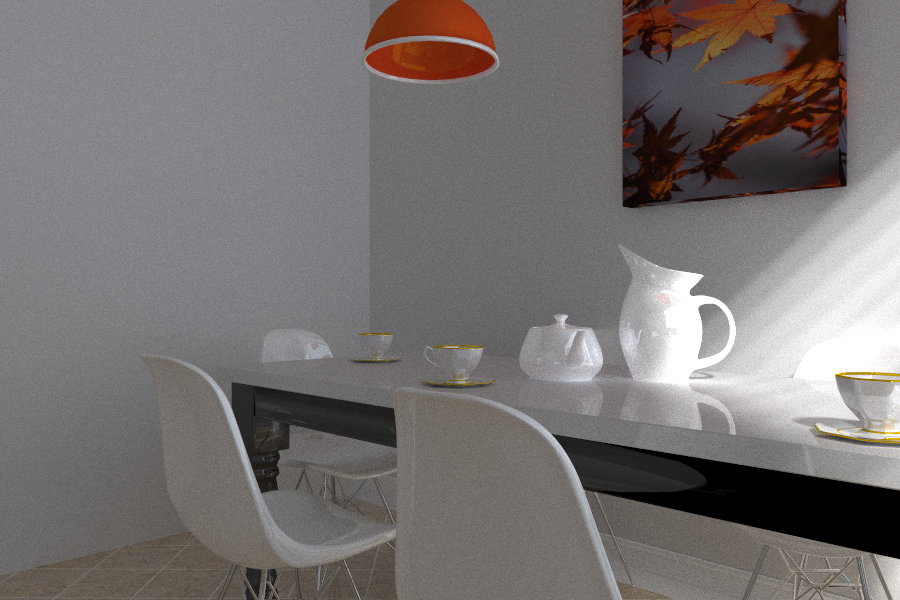
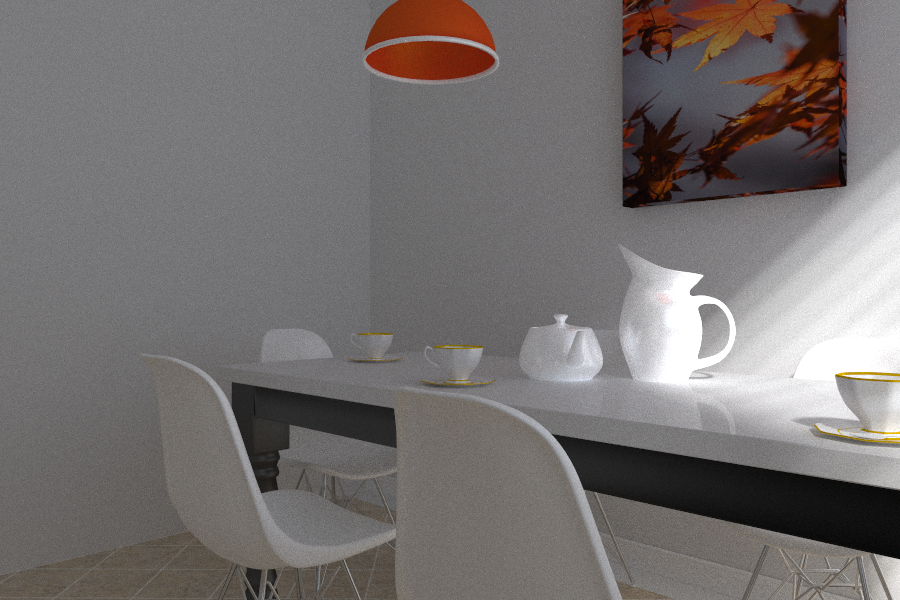
Fixing ray-direction calculation. (Have been using incorrect formula from Peter Shirley's book all the time!)

diff --git a/README.md b/README.md
@@ -13,7 +13,7 @@ The "sponza" model, 900x600x1000 rays, rendered in 11.2 seconds using RTX 2060 s
 
 <img src="gallery/breakfast_room.png" width="900px">
 
-The "breakfast_room" model, 900x600x1000 rays, rendered in 17.9 seconds using RTX 2060 super.
+The "breakfast_room" model, 900x600x1000 rays, rendered in 18.4 seconds using RTX 2060 super.
 
 Using the newly added Python frontend, the above case can be rendered using the following Python script:
 
